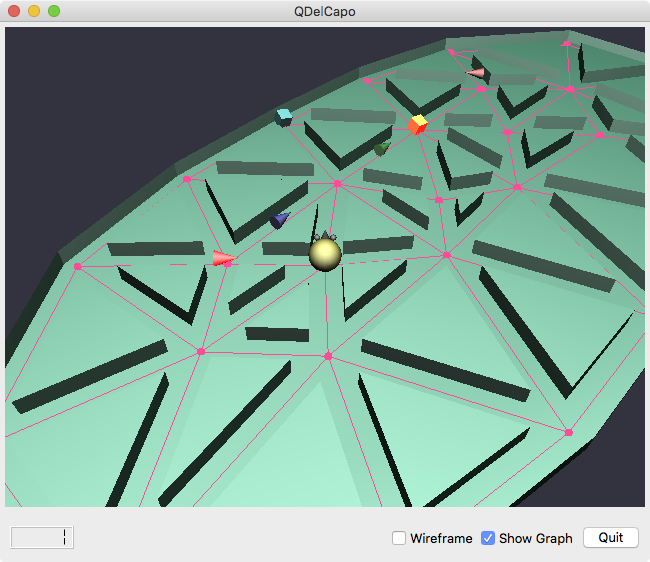
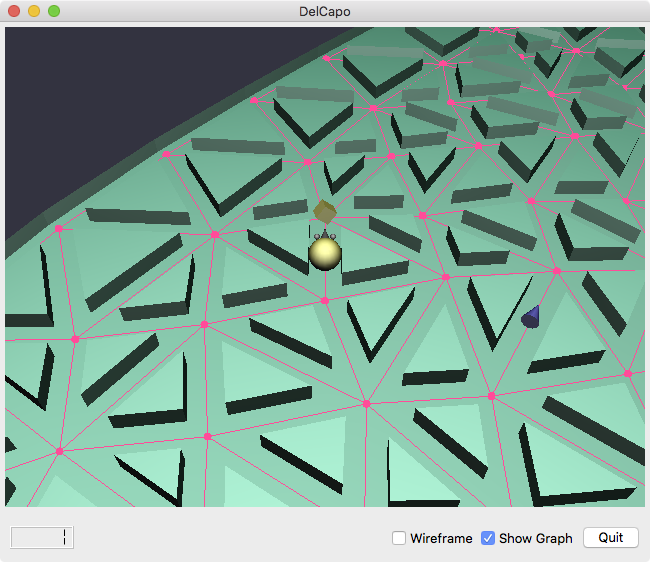
removed the name inconsistency by dropping the 'q'.

diff --git a/code/delaunay/Qdelaunay_window.cpp b/code/delaunay/Qdelaunay_window.cpp
@@ -95,7 +95,7 @@ QDelaunay_Window::QDelaunay_Window()
     mainLayout->addLayout(uiLayout);
 
     setLayout(mainLayout);
-    setWindowTitle(tr("QDelCapo - Maze"));
+    setWindowTitle(tr("DelCapo - Maze"));
     move(delaunay_hint_to_window_manager);
     // No GL commands can precede QDelaunay_Subwindow::initializeGL().
 }

diff --git a/code/delcapo/Qdelcapo_window.cpp b/code/delcapo/Qdelcapo_window.cpp
@@ -41,7 +41,7 @@ QDelCapo_Window::QDelCapo_Window( Planar_Graph * pg )
     hLayout->addWidget(quitButton);
     setLayout(mainLayout);
 
-    setWindowTitle(tr("QDelCapo"));
+    setWindowTitle(tr("DelCapo"));
 
     connect(wireframeCheckBox, SIGNAL(toggled(bool)),
             this, SLOT(wireframeStateChanged(bool)));
